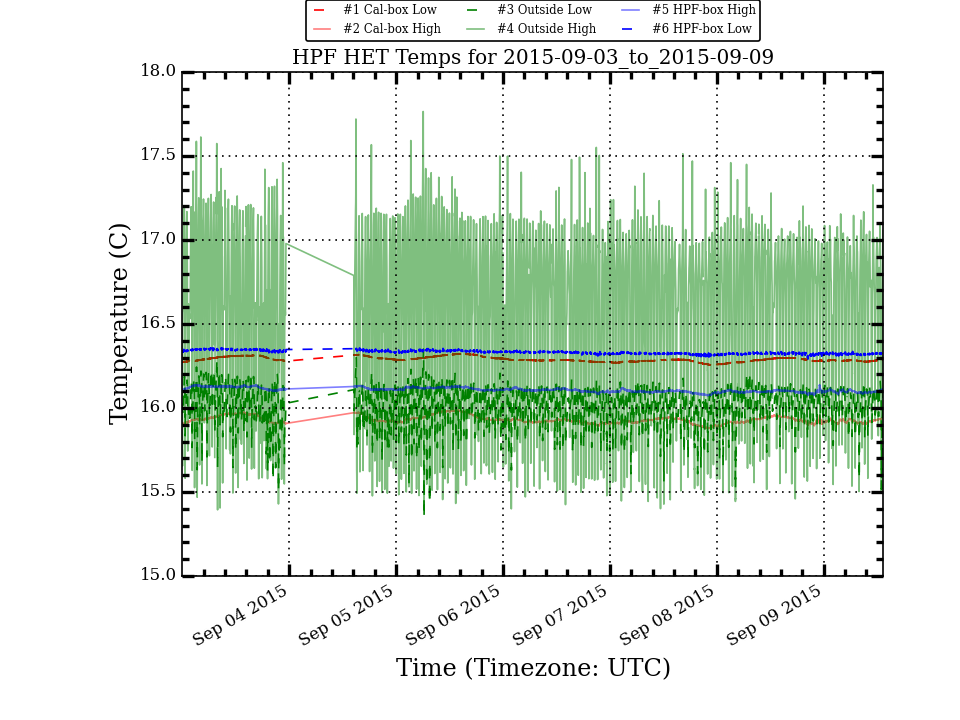
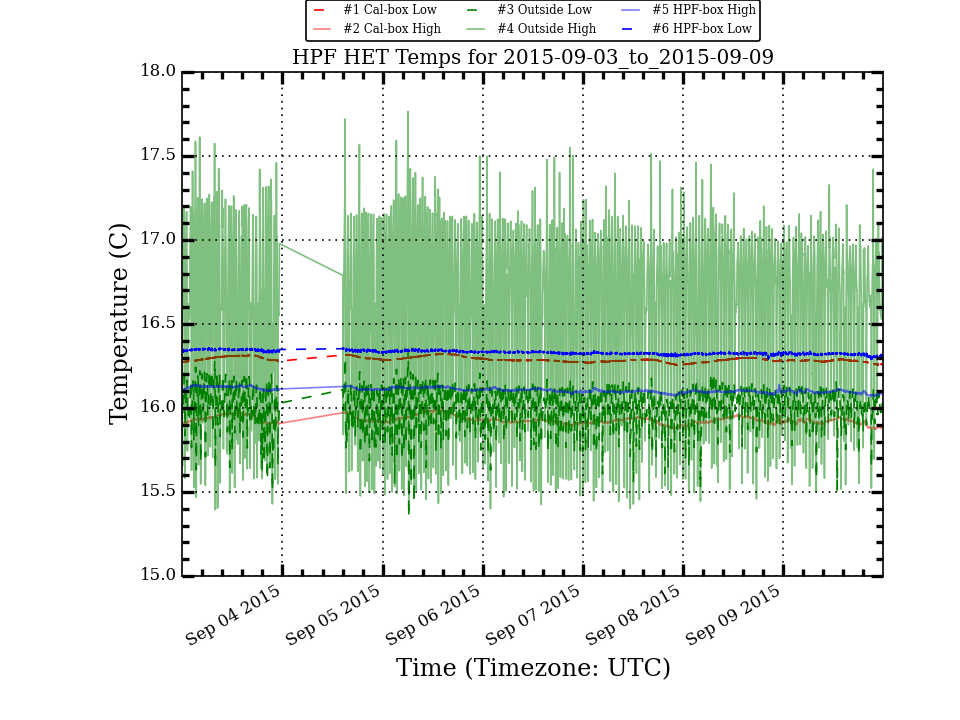
Update HPF Temp Plots

diff --git a/research/hpf_temps/plots/LakeShoreLogTotal_week_stats.html b/research/hpf_temps/plots/LakeShoreLogTotal_week_stats.html
@@ -10,7 +10,7 @@
  </TR>
  <TR>
   <TD>Cal_Low</TD>
-  <TD>16.289</TD>
+  <TD>16.288</TD>
   <TD>0.014</TD>
   <TD>16.286</TD>
   <TD>16.323</TD>
@@ -19,18 +19,18 @@
  </TR>
  <TR>
   <TD>Cal_High</TD>
-  <TD>15.931</TD>
-  <TD>0.021</TD>
+  <TD>15.929</TD>
+  <TD>0.022</TD>
   <TD>15.927</TD>
   <TD>15.987</TD>
-  <TD>15.877</TD>
-  <TD>0.110</TD>
+  <TD>15.875</TD>
+  <TD>0.112</TD>
  </TR>
  <TR>
   <TD>Out_Low</TD>
-  <TD>16.019</TD>
-  <TD>0.105</TD>
-  <TD>16.036</TD>
+  <TD>16.018</TD>
+  <TD>0.103</TD>
+  <TD>16.033</TD>
   <TD>16.351</TD>
   <TD>15.348</TD>
   <TD>1.003</TD>
@@ -38,28 +38,28 @@
  <TR>
   <TD>Out_High</TD>
   <TD>16.600</TD>
-  <TD>0.472</TD>
-  <TD>16.749</TD>
+  <TD>0.464</TD>
+  <TD>16.743</TD>
   <TD>17.765</TD>
   <TD>15.394</TD>
   <TD>2.371</TD>
  </TR>
  <TR>
   <TD>HPF_High</TD>
-  <TD>16.107</TD>
-  <TD>0.013</TD>
   <TD>16.106</TD>
+  <TD>0.014</TD>
+  <TD>16.105</TD>
   <TD>16.139</TD>
-  <TD>16.074</TD>
-  <TD>0.065</TD>
+  <TD>16.069</TD>
+  <TD>0.070</TD>
  </TR>
  <TR>
   <TD>HPF_Low</TD>
-  <TD>16.331</TD>
+  <TD>16.330</TD>
   <TD>0.011</TD>
-  <TD>16.331</TD>
+  <TD>16.329</TD>
   <TD>16.363</TD>
-  <TD>16.293</TD>
-  <TD>0.070</TD>
+  <TD>16.290</TD>
+  <TD>0.073</TD>
  </TR>
 </TABLE>

diff --git a/research/hpf_temps/plots/LakeShoreLogTotal_month_stats.html b/research/hpf_temps/plots/LakeShoreLogTotal_month_stats.html
@@ -10,8 +10,8 @@
  </TR>
  <TR>
   <TD>Cal_Low</TD>
-  <TD>16.294</TD>
-  <TD>0.075</TD>
+  <TD>16.293</TD>
+  <TD>0.074</TD>
   <TD>16.281</TD>
   <TD>16.552</TD>
   <TD>15.928</TD>
@@ -20,7 +20,7 @@
  <TR>
   <TD>Cal_High</TD>
   <TD>15.934</TD>
-  <TD>0.092</TD>
+  <TD>0.091</TD>
   <TD>15.916</TD>
   <TD>16.263</TD>
   <TD>15.524</TD>
@@ -28,38 +28,38 @@
  </TR>
  <TR>
   <TD>Out_Low</TD>
-  <TD>16.034</TD>
-  <TD>0.172</TD>
-  <TD>16.042</TD>
+  <TD>16.033</TD>
+  <TD>0.171</TD>
+  <TD>16.041</TD>
   <TD>16.762</TD>
   <TD>15.121</TD>
   <TD>1.641</TD>
  </TR>
  <TR>
   <TD>Out_High</TD>
-  <TD>16.664</TD>
-  <TD>0.516</TD>
-  <TD>16.793</TD>
+  <TD>16.663</TD>
+  <TD>0.514</TD>
+  <TD>16.791</TD>
   <TD>18.371</TD>
   <TD>14.886</TD>
   <TD>3.485</TD>
  </TR>
  <TR>
   <TD>HPF_High</TD>
-  <TD>16.176</TD>
+  <TD>16.175</TD>
   <TD>0.086</TD>
-  <TD>16.143</TD>
+  <TD>16.142</TD>
   <TD>16.434</TD>
-  <TD>16.074</TD>
-  <TD>0.360</TD>
+  <TD>16.069</TD>
+  <TD>0.365</TD>
  </TR>
  <TR>
   <TD>HPF_Low</TD>
-  <TD>16.395</TD>
+  <TD>16.393</TD>
   <TD>0.079</TD>
-  <TD>16.362</TD>
+  <TD>16.361</TD>
   <TD>16.616</TD>
-  <TD>16.293</TD>
-  <TD>0.323</TD>
+  <TD>16.290</TD>
+  <TD>0.326</TD>
  </TR>
 </TABLE>
